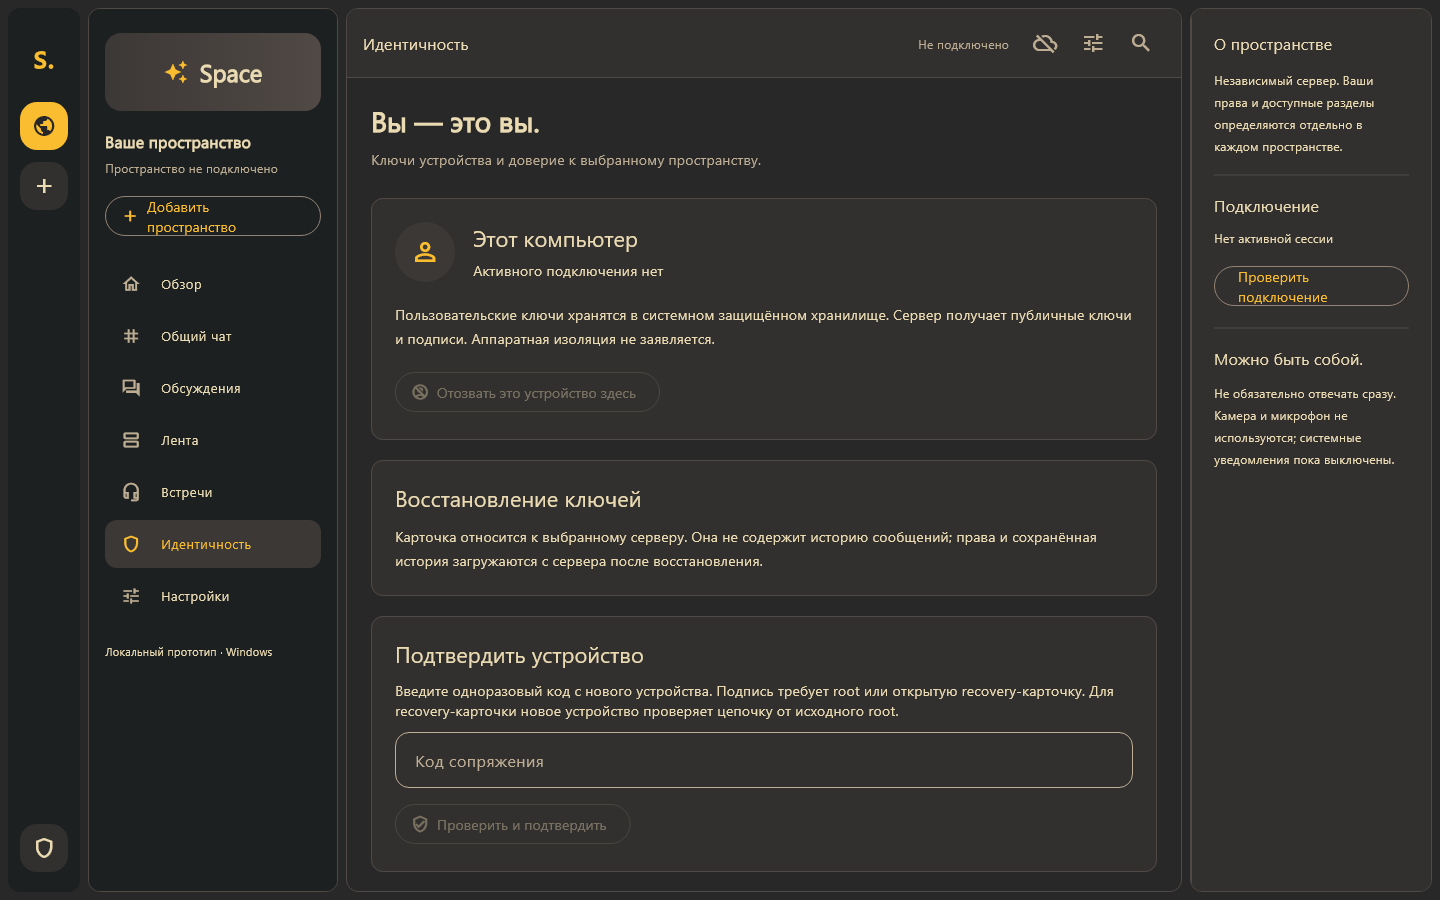
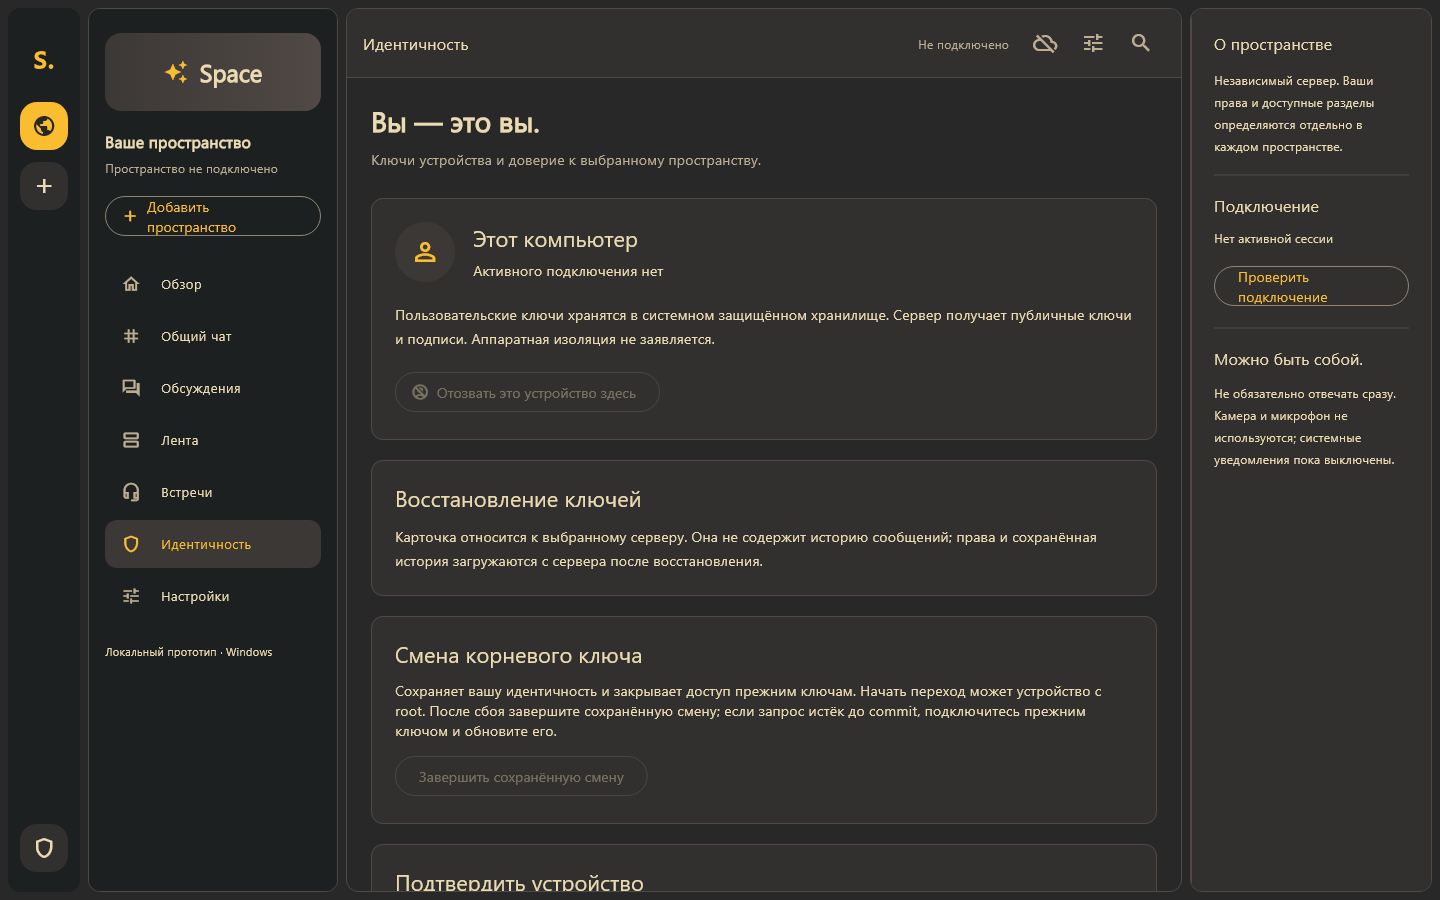
Сохранить привязку к доверенному серверу при возобновлении ротации

Changed region(s): [[0.2812, 0.7156, 0.7812, 0.8711], [0.2812, 0.9644, 0.4375, 0.9956], [0.2812, 0.9022, 0.4062, 0.9333]]

diff --git a/client/lib/src/core.dart b/client/lib/src/core.dart
@@ -694,7 +694,11 @@ class SpaceSession
     DeviceRecord? authority,
   }) async {
     final credentials = authority ?? record;
-    if(credentials.rootHistory.isNotEmpty) {throw const FormatException('Сопряжение после ротации ещё обновляется. Подключите устройство новой recovery-карточкой.');}
+    if (credentials.rootHistory.isNotEmpty) {
+      throw const FormatException(
+        'Сопряжение после ротации ещё обновляется. Подключите устройство новой recovery-карточкой.',
+      );
+    }
     if (credentials.rootSeed.isEmpty && credentials.recoverySeed.length != 32) {
       throw const FormatException(
         'Откройте корневую или recovery-карточку для подтверждения',
@@ -732,7 +736,11 @@ class SpaceSession
     DeviceRecord? authority,
   }) async {
     final credentials = authority ?? record;
-    if(credentials.rootHistory.isNotEmpty) {throw const FormatException('Сопряжение после ротации ещё обновляется. Подключите устройство новой recovery-карточкой.');}
+    if (credentials.rootHistory.isNotEmpty) {
+      throw const FormatException(
+        'Сопряжение после ротации ещё обновляется. Подключите устройство новой recovery-карточкой.',
+      );
+    }
     if (credentials.rootSeed.isEmpty && credentials.recoverySeed.length != 32) {
       throw const FormatException('Нужен root или recovery-карточка');
     }

diff --git a/client/lib/src/root_rotation.dart b/client/lib/src/root_rotation.dart
@@ -25,6 +25,7 @@ Future<Map<String, dynamic>> prepareRootRotation(
   if (current.rootSeed.length != 32) {
     throw const FormatException('Для смены root нужен исходный корневой ключ');
   }
+  checkTrust(server, current);
   final existing = await vault.loadRotation(current.origin);
   if (existing != null && !renew) {
     throw const FormatException('Сначала завершите предыдущую ротацию');
@@ -44,6 +45,7 @@ Future<Map<String, dynamic>> prepareRootRotation(
       ? null
       : DeviceRecord.fromJson(existing['next'] as Map<String, dynamic>);
   if (saved != null) {
+    checkTrust(server, saved);
     final checked = await saved.identity();
     if (existing!['old_digest'] != await _digest(current) ||
         checked.principalId != identity.principalId ||
@@ -194,6 +196,9 @@ Future<DeviceRecord?> finishRootRotation(
     // Частично записанный active slot после commit восстанавливается из отдельного
     // защищённого журнала, только после проверки обеих подписей и receipt сервера.
     current = null;
+  }
+  if (current != null) {
+    checkTrust(server, current);
   }
   final oldState =
       current == null || await _digest(current) == pending['old_digest'];

diff --git a/client/lib/ui/recovery_panel.dart b/client/lib/ui/recovery_panel.dart
@@ -415,7 +415,7 @@ class _RecoveryPanelState extends State<RecoveryPanel> {
             ),
             const SizedBox(height: 12),
             const Text(
-              'Сохраняет вашу идентичность и закрывает доступ прежним ключам. Начать переход может устройство с root. После сбоя завершите сохранённую смену; если запрос истёк до commit, подключитесь прежним ключом и обновите его.',
+              'Сохраняет вашу идентичность и закрывает доступ прежним ключам. Начать смену можно на устройстве с корневым ключом. После сбоя завершите сохранённую смену. Если запрос истёк до завершения на сервере, подключитесь прежним ключом и обновите запрос.',
             ),
             const SizedBox(height: 12),
             if (widget.controller.connected &&
